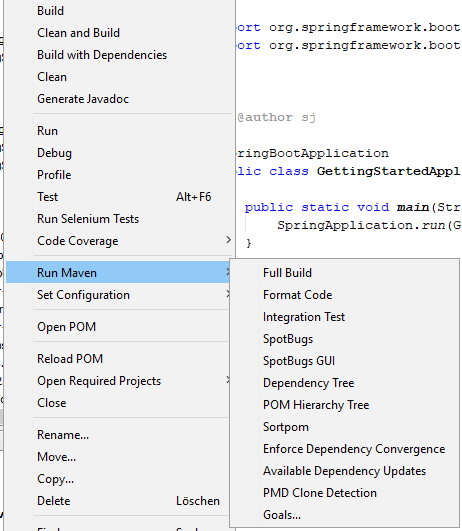
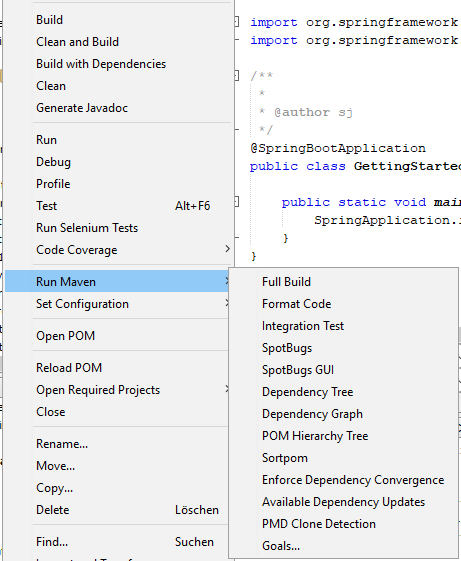
- removed disabling of JAR creation and installation in local Maven repository - introduced com.github.ferstl:depgraph-maven-plugin:graph

diff --git a/maven-skip-execution-profile-extension/src/main/java/com/scheible/maven/extension/skipprofile/SkipExecutionProfileModelProcessor.java b/maven-skip-execution-profile-extension/src/main/java/com/scheible/maven/extension/skipprofile/SkipExecutionProfileModelProcessor.java
@@ -97,9 +97,6 @@ public class SkipExecutionProfileModelProcessor implements ModelProcessor {
 		});
 
 		createProfile(model, "skip-all-but-compilation-and-resources-and-unit-tests").ifPresent(profile -> {
-			createSkipExecutionPlugin(profile, DEFAULT_GROUP_ID, "maven-jar-plugin", "default-jar");
-			createSkipExecutionPlugin(profile, DEFAULT_GROUP_ID, "maven-install-plugin", "default-install");
-
 			for (Map.Entry<SkipExecutionConfiguration.Plugin, Set<String>> pluginExecutionToSkip
 					: skipExecutionConfiguration.getPluginExecutionsIds().entrySet()) {
 				createSkipExecutionPlugin(profile, pluginExecutionToSkip.getKey().getGroupId(),

diff --git a/README.md b/README.md
@@ -26,6 +26,7 @@ Highly opinionated selection of Maven plugins made accessible via the Netbeans U
   - **[SpotBugs]** `spotbugs:check`
   - **[SpotBugs GUI]** `spotbugs:gui`  
   - **[Dependency Tree]** `dependency:tree`
+  - **[Dependency Graph]** `depgraph:graph`
   - **[POM Hierarchy Tree]** `hierarchy:tree`
   - **[Sortpom]** `sortpom:sorty`
   - **[Enforce Dependency Convergence]** `enforcer:enforce@dependency-convergence`
